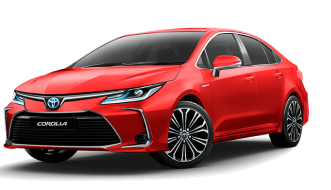
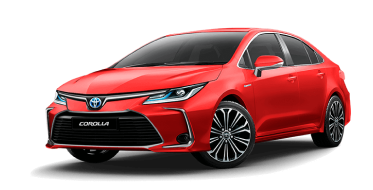
parte 1 centro de diagnostico

diff --git a/src/build-taller-Desktop_Qt_6_6_1_MinGW_64_bit-Debug/taller_autogen/include/ui_taller.h b/src/build-taller-Desktop_Qt_6_6_1_MinGW_64_bit-Debug/taller_autogen/include/ui_taller.h
@@ -17,6 +17,7 @@
 #include <QtWidgets/QLabel>
 #include <QtWidgets/QLineEdit>
 #include <QtWidgets/QMainWindow>
+#include <QtWidgets/QProgressBar>
 #include <QtWidgets/QPushButton>
 #include <QtWidgets/QStackedWidget>
 #include <QtWidgets/QStatusBar>
@@ -56,6 +57,7 @@ public:
     QWidget *tab_3;
     QTableWidget *tablaVehiculosCola;
     QWidget *tab_4;
+    QProgressBar *progressBar;
     QWidget *tab_5;
     QTableWidget *tablaRepuestos;
     QWidget *tab_7;
@@ -298,6 +300,10 @@ public:
         tabWidget->addTab(tab_3, QString());
         tab_4 = new QWidget();
         tab_4->setObjectName("tab_4");
+        progressBar = new QProgressBar(tab_4);
+        progressBar->setObjectName("progressBar");
+        progressBar->setGeometry(QRect(10, 230, 379, 51));
+        progressBar->setValue(24);
         tabWidget->addTab(tab_4, QString());
         tab_5 = new QWidget();
         tab_5->setObjectName("tab_5");
@@ -369,7 +375,7 @@ public:
 
         retranslateUi(Taller);
 
-        tabWidget->setCurrentIndex(0);
+        tabWidget->setCurrentIndex(3);
         stackedWidget->setCurrentIndex(1);
 
 

diff --git a/src/taller/taller.cpp b/src/taller/taller.cpp
@@ -112,7 +112,7 @@ void imagenCorolla(Ui::Taller *ui)
         QLabel *imageLabel = new QLabel(ui->tabWidget->widget(3));
         QPixmap image(imagePath);
         imageLabel->setPixmap(image);
-        imageLabel->setGeometry(100, 100, image.width(), image.height());
+        imageLabel->setGeometry(10, 20, image.width(), image.height());
         imageLabel->show();
     }
     else
